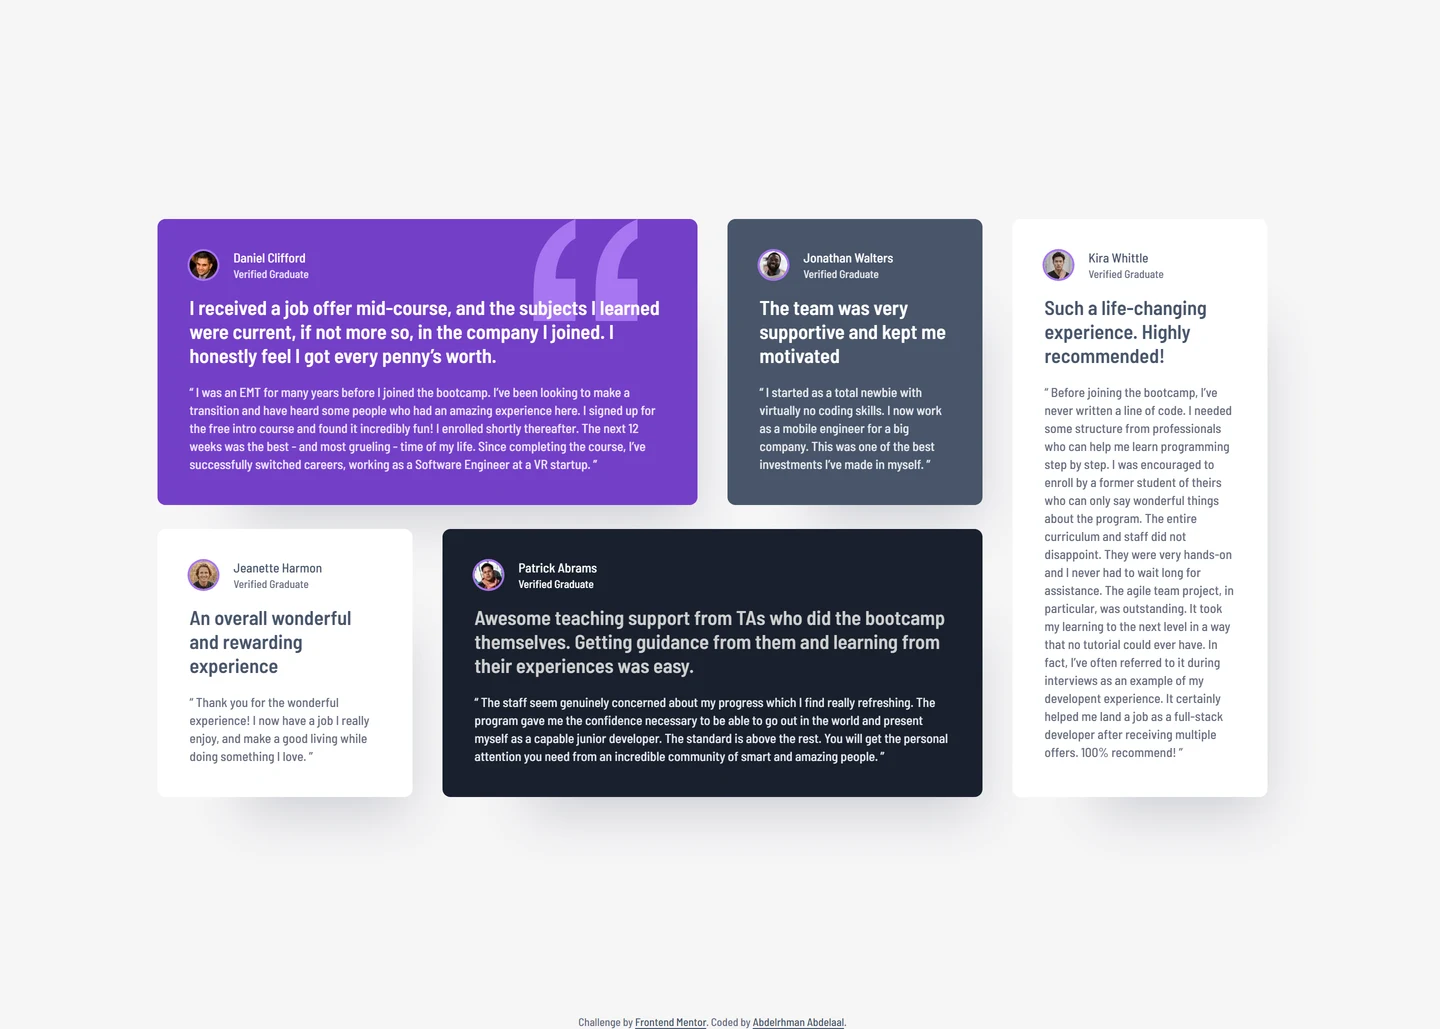
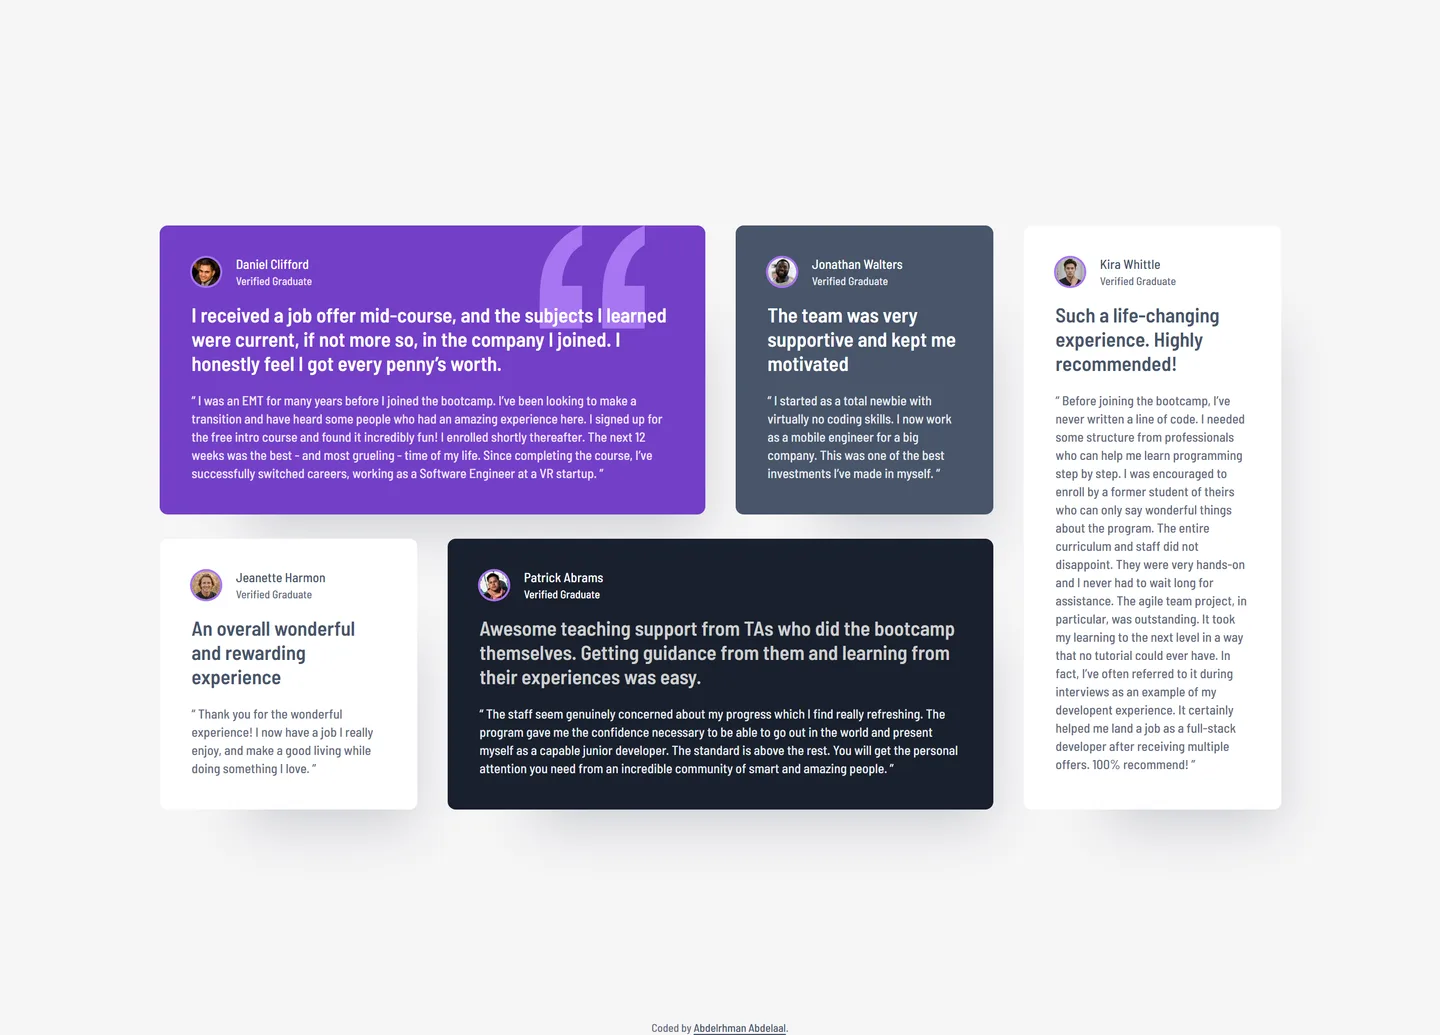
feat: update footer content and remove Frontend Mentor reference

diff --git a/src/components/footer.tsx b/src/components/footer.tsx
@@ -1,16 +1,7 @@
 export default function Footer() {
   return (
     <footer className="absolute inset-x-0 bottom-0 v-container pb-0.5 text-center text-role">
-      Challenge by{" "}
-      <a
-        className="v-footer-link"
-        href="https://www.frontendmentor.io?ref=challenge"
-        target="_blank"
-        rel="noopener noreferrer"
-      >
-        Frontend Mentor
-      </a>
-      . Coded by{" "}
+      Coded by{" "}
       <a
         className="v-footer-link"
         href="https://www.linkedin.com/in/abdelrhman-vanta/"

diff --git a/README.md b/README.md
@@ -22,7 +22,6 @@ This is a solution to the [Testimonials grid section challenge on Frontend Mento
 
 - Solution URL: [GitHub](https://github.com/MrBlackvanta/testimonials-grid-section)
 - Live Site URL: [Cloudflare](https://testimonials-grid-section.abdelrhman-ahmed8881.workers.dev)
-- Mirror: [Netlify](https://vanta-testimonials-grid-section.netlify.app)
 
 ## My process
 
@@ -116,6 +115,6 @@ the design JPGs. All five are circle-masked transparent WebP at 56px, built by
 
 ## Author
 
-- UpWork - [Abdelrhman Abdelaal](https://upwork.com/freelancers/~01f0a9479696b61f49)
+- UpWork - [Abdelrhman Abdelaal](https://www.upwork.com/freelancers/mrblackvanta)
 - Frontend Mentor - [@MrBlackvanta](https://www.frontendmentor.io/profile/MrBlackvanta)
 - LinkedIn - [Abdelrhman Abdelaal](https://www.linkedin.com/in/abdelrhman-vanta/)
